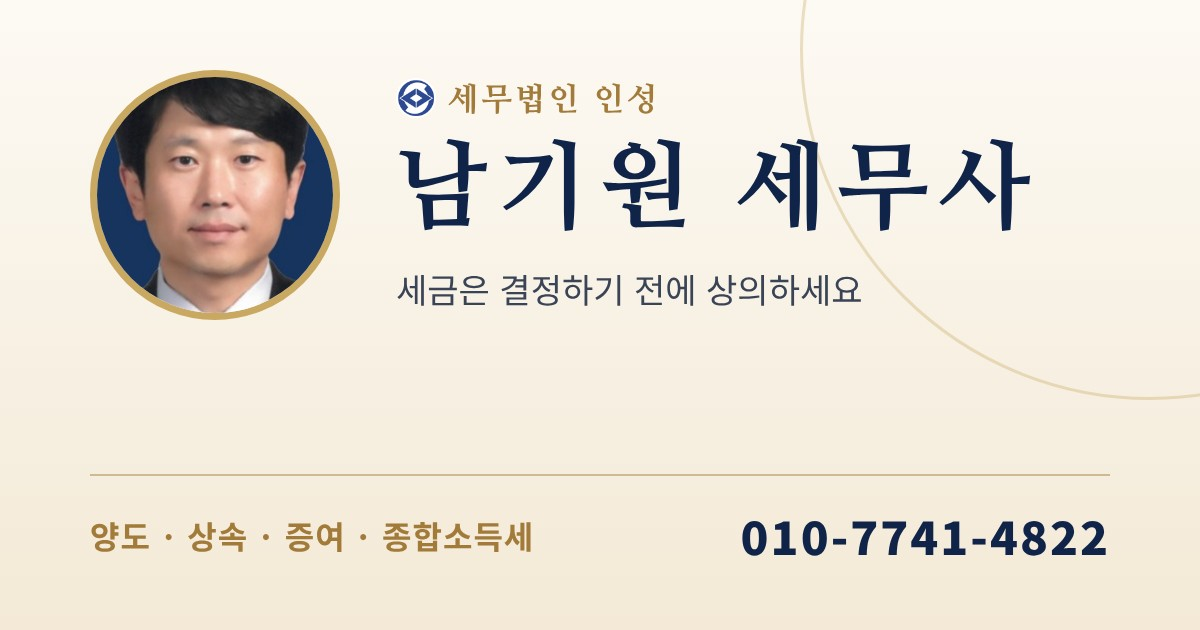
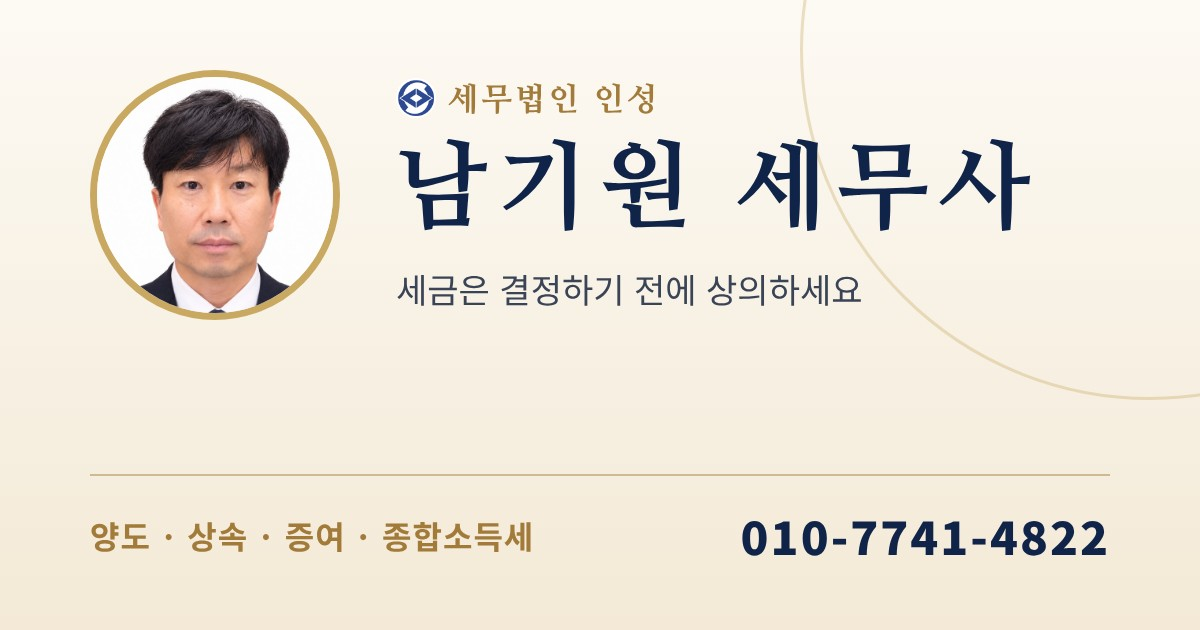
카톡 미리보기(홈·디지털 명함) 새 프로필 사진으로 교체
Claude-Session: https://claude.ai/code/session_01SxCCn7YXo7pVz4k4qkVwMb

Changed region(s): [[0.0617, 0.1206, 0.2775, 0.5127]]

diff --git a/_ops/og/card-og.html b/_ops/og/card-og.html
@@ -1,0 +1,22 @@
+<!doctype html><html><head><meta charset="utf-8"><style>
+@font-face{font-family:NM;src:url(NanumMyeongjo-800.woff2);font-weight:800}
+*{margin:0;padding:0;box-sizing:border-box}
+body{width:1200px;height:630px;background:linear-gradient(180deg,#fdfaf4 0%,#f3e9d6 100%);font-family:"Noto Sans CJK KR",sans-serif;color:#0f2448;position:relative;overflow:hidden}
+.serif{font-family:NM,serif}
+.c{position:absolute;right:-180px;top:-220px;width:760px;height:760px;border-radius:50%;border:3px solid rgba(201,169,97,.35)}
+.w{position:absolute;left:90px;right:90px;top:0;bottom:0;display:flex;align-items:center;gap:60px}
+.ph{width:270px;height:270px;border-radius:50%;border:7px solid #c9a961;object-fit:cover;flex:none}
+.tag{display:inline-block;border:2px solid #c9a961;color:#a27b3a;font-size:26px;font-weight:700;padding:6px 20px;letter-spacing:3px}
+.o{font-family:NM;margin-top:26px;font-size:30px;color:#a27b3a;font-weight:700;letter-spacing:3px}
+.o img{width:38px;height:38px;vertical-align:-8px;margin-right:12px}
+.n{font-size:92px;font-weight:800;letter-spacing:14px;margin-top:4px}
+.n small{font-size:36px;letter-spacing:2px;margin-left:16px;color:#3a4456;font-weight:700}
+.s{font-size:30px;color:#3a4456;margin-top:18px}
+.t{font-size:40px;color:#0f2448;font-weight:900;margin-top:18px;letter-spacing:2px}
+</style></head><body><div class="c"></div><div class="w"><img class="ph" src="profile.jpg"><div>
+<span class="tag">디지털 명함</span>
+<div class="o"><img src="kacta-mark.png">세무법인 인성</div>
+<div class="n serif">남기원<small>지점대표세무사</small></div>
+<div class="s">연락처 저장 · 전화 · 카카오톡 상담을 한 번에</div>
+<div class="t">010-7741-4822</div>
+</div></div></body></html>

diff --git a/index.html b/index.html
@@ -10,7 +10,7 @@
 <meta property="og:title" content="세무법인 인성 남기원 세무사">
 <meta property="og:description" content="신고부터 세무조사까지, 끝까지 함께합니다. 양도·상속·증여·종합소득세·법인세 상담">
 <meta property="og:url" content="https://recaro79.github.io/">
-<meta property="og:image" content="https://recaro79.github.io/assets/img/og.jpg?v=2">
+<meta property="og:image" content="https://recaro79.github.io/assets/img/og.jpg?v=3">
 <link rel="canonical" href="https://recaro79.github.io/">
 <link rel="preconnect" href="https://fonts.googleapis.com">
 <link href="https://fonts.googleapis.com/css2?family=Noto+Sans+KR:wght@400;500;700;900&family=Noto+Serif+KR:wght@600;700;900&family=Nanum+Myeongjo:wght@400;700;800&display=swap" rel="stylesheet">

diff --git a/card/index.html b/card/index.html
@@ -10,7 +10,7 @@
 <meta name="description" content="세무법인 인성 남기원 지점대표세무사 디지털 명함 — 연락처 저장, 전화, 카카오톡 상담, 홈페이지">
 <meta property="og:type" content="website">
 <meta property="og:url" content="https://recaro79.github.io/card/">
-<meta property="og:image" content="https://recaro79.github.io/card/card-og.jpg">
+<meta property="og:image" content="https://recaro79.github.io/card/card-og.jpg?v=3">
 <meta property="og:image:width" content="1200">
 <meta property="og:image:height" content="630">
 <link rel="preconnect" href="https://fonts.googleapis.com">
